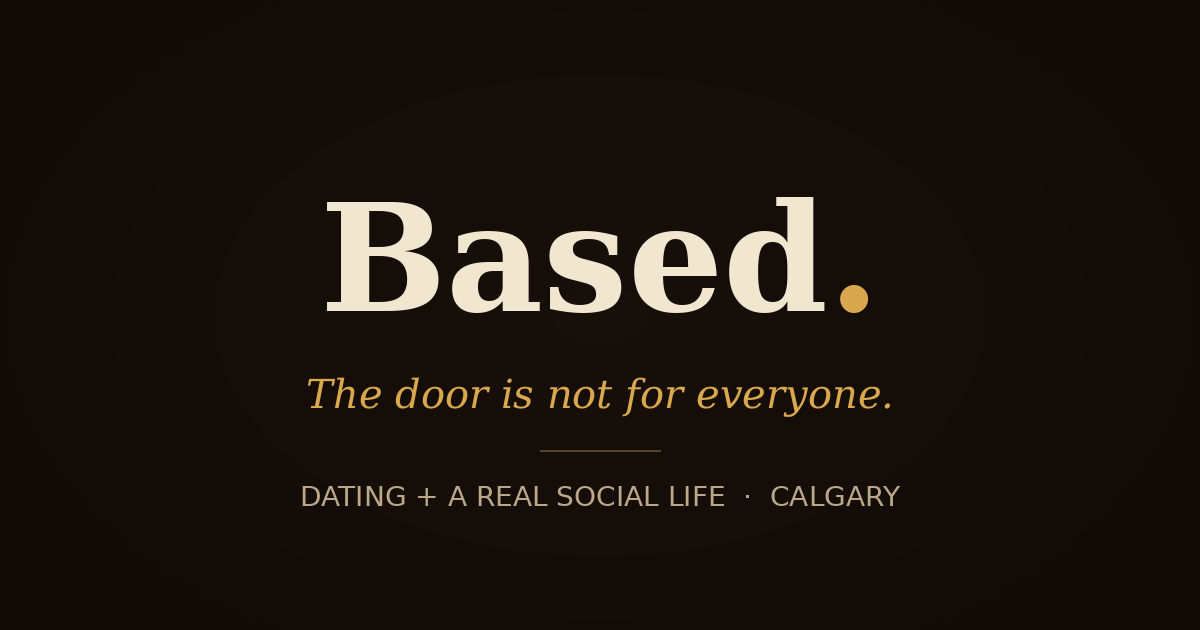
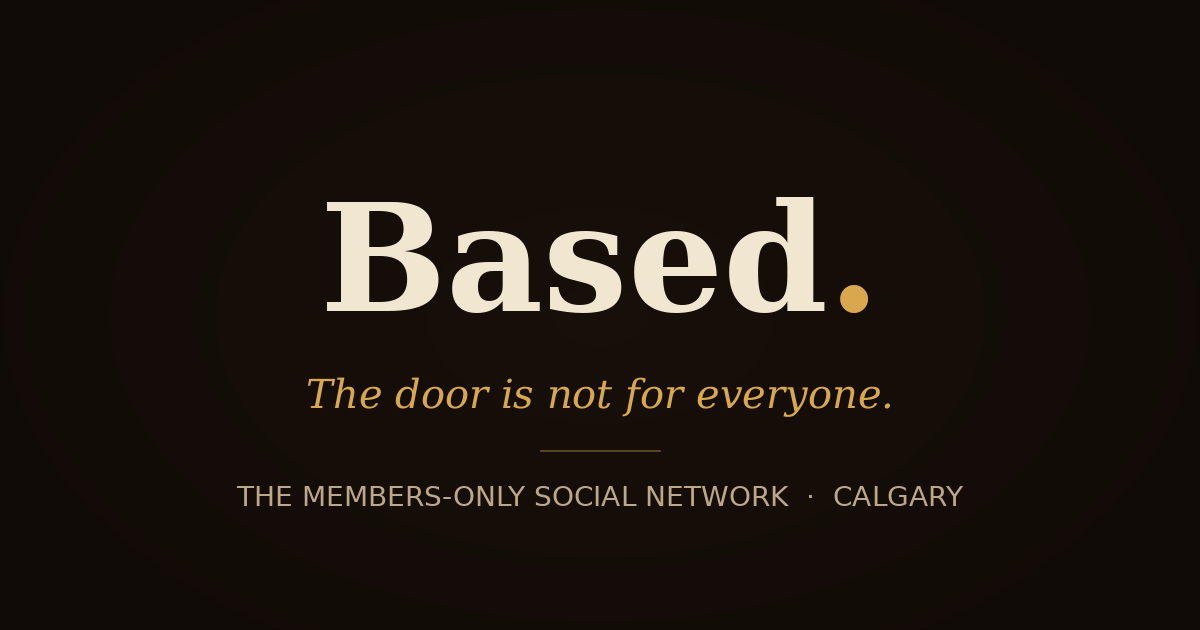
Website: social network first (1/3): homepage + share image

Changed region(s): [[0.185, 0.754, 0.8017, 0.8143]]

diff --git a/site/index.html b/site/index.html
@@ -13,8 +13,8 @@
   try { if (matchMedia('(display-mode: standalone)').matches || navigator.standalone) location.replace('/app/'); } catch (e) {}
 })();
 </script>
-<title>Based · Dating and a real social life in Calgary</title>
-<meta name="description" content="Based is a members-only app for dating, friends, events and the best spots in Calgary. Real photos, real people, voice notes instead of endless texting. 18+. Join the waitlist.">
+<title>Based · The members-only social network for Calgary</title>
+<meta name="description" content="Based is a members-only social network for Calgary: a feed worth reading, groups, events and the best local spots, with real, verified people. Dating is built in too. 18+. Join the waitlist.">
 <link rel="canonical" href="https://based-social.com/">
 <meta name="robots" content="index,follow,max-image-preview:large">
 <meta name="theme-color" content="#110B07">
@@ -24,14 +24,14 @@
 <meta property="og:site_name" content="Based">
 <meta property="og:url" content="https://based-social.com/">
 <meta property="og:title" content="Based · The door is not for everyone.">
-<meta property="og:description" content="Dating and a real social life in one members-only app. Calgary first. Join the waitlist.">
+<meta property="og:description" content="A members-only social network for real people: posts worth reading, groups, events and the best spots. Calgary first. Join the waitlist.">
 <meta property="og:image" content="https://based-social.com/og.png">
 <meta property="og:image:width" content="1200">
 <meta property="og:image:height" content="630">
 <meta property="og:locale" content="en_CA">
 <meta name="twitter:card" content="summary_large_image">
 <meta name="twitter:title" content="Based · The door is not for everyone.">
-<meta name="twitter:description" content="Dating and a real social life in one members-only app. Calgary first.">
+<meta name="twitter:description" content="A members-only social network for real people. Calgary first.">
 <meta name="twitter:image" content="https://based-social.com/og.png">
 <script type="application/ld+json">
 {
@@ -61,7 +61,7 @@
       "applicationCategory": "SocialNetworkingApplication",
       "operatingSystem": "Android, iOS (web), Web",
       "url": "https://based-social.com/app/",
-      "description": "Dating, friends, events and venues in one members-only app. 18+.",
+      "description": "A members-only social network: a feed, groups, events, local spots, and dating built in. 18+.",
       "offers": { "@type": "Offer", "price": "0", "priceCurrency": "CAD" },
       "publisher": { "@id": "https://based-social.com/#org" }
     },
@@ -69,15 +69,15 @@
       "@type": "FAQPage",
       "mainEntity": [
         { "@type": "Question", "name": "What is Based?",
-          "acceptedAnswer": { "@type": "Answer", "text": "Based is one app for dating and a real social life: people to date, groups to join, events, a feed worth reading, and the bars and spots worth going to. It's members-only and 18+." } },
+          "acceptedAnswer": { "@type": "Answer", "text": "Based is a members-only social network for real people: a feed worth reading, groups to join, events, and the bars and spots worth going to. Dating is built in for anyone who wants it. It's 18+." } },
         { "@type": "Question", "name": "Where is Based available?",
           "acceptedAnswer": { "@type": "Answer", "text": "Based is opening in Calgary first. Anyone can join the waitlist for their city, and new cities open when enough people sign up." } },
         { "@type": "Question", "name": "How do I get in?",
           "acceptedAnswer": { "@type": "Answer", "text": "With an invite code from a member or a partner venue, or through the waitlist. Each city has a member cap and new spots open in timed drops. A member's code moves you to the front of the line." } },
         { "@type": "Question", "name": "Is Based free?",
           "acceptedAnswer": { "@type": "Answer", "text": "Yes, Based is free to join and use. An optional Premium membership with extras is coming." } },
-        { "@type": "Question", "name": "How is Based different from other dating apps?",
-          "acceptedAnswer": { "@type": "Answer", "text": "Photos are checked against a live selfie, contact info stays hidden until you've both sent a voice note, and matches that never talk fade out. Dating sits alongside friends, groups and events, so you meet people the way people actually meet." } }
+        { "@type": "Question", "name": "How is Based different from other social media?",
+          "acceptedAnswer": { "@type": "Answer", "text": "Everyone is a real, verified person in your city. There are no follower counts or popularity scores, useful posts reach more people while noise doesn't, and the point is to get you out to events and spots with people you'd actually like. Dating is there too, for anyone who wants it." } }
       ]
     }
   ]
@@ -156,8 +156,8 @@ footer a{color:var(--muted);margin-right:16px}
 <div class="wrap hero">
   <div>
     <p class="slogan">The door is not for everyone.</p>
-    <h1>Dating and a real social life, in one app.</h1>
-    <p class="lede">Meet people to date, make friends, find the events and the spots worth going to. Members only, real people only, and opening in Calgary first.</p>
+    <h1>The social network for people who actually go out.</h1>
+    <p class="lede">A feed worth reading, groups for what you're into, events this week and the spots worth going to. Every member is a real, verified person. Opening in Calgary first.</p>
     <div class="btns">
       <a class="btn" href="#join">Join the waitlist</a>
       <a class="btn2" href="/test/">Get the Android app</a>
@@ -193,14 +193,14 @@ footer a{color:var(--muted);margin-right:16px}
 <section id="inside">
   <div class="wrap">
     <h2>What's inside</h2>
-    <p class="intro">Most apps make you pick: dating or friends, online or out. Based puts it all in one place, built around getting people off their phones and into the same room.</p>
+    <p class="intro">Most social media keeps you scrolling. Based is built to get you into the same room as people worth knowing, with everything you need for that in one place.</p>
     <div class="grid">
-      <div class="item"><div class="k">Dating</div><h3>A daily batch, not endless swiping</h3><p>People near you, ranked by what you actually share: interests, groups, events and the places you go.</p></div>
-      <div class="item"><div class="k">Voice notes</div><h3>Hear each other early</h3><p>By day four of a match, you've both sent a voice note or the chat pauses. Contact info stays hidden until you have.</p></div>
-      <div class="item"><div class="k">Herd</div><h3>Groups and circles</h3><p>Join or start circles around what you're into, and plan things with them.</p></div>
+      <div class="item"><div class="k">Feed</div><h3>Posts worth reading</h3><p>Topics from startups to Stoicism, or start your own. Useful posts reach more people; noise and rage-bait don't.</p></div>
+      <div class="item"><div class="k">Herd</div><h3>Groups and circles</h3><p>Join or start circles around what you're into: run clubs, founders, book clubs, hockey. Make plans with people who are in.</p></div>
       <div class="item"><div class="k">Events</div><h3>Things to do this week</h3><p>See what's on in the city, who's going, and RSVP in a tap.</p></div>
       <div class="item"><div class="k">Spots</div><h3>The places worth going</h3><p>Check in at partner bars and venues, see who else is there, and vote on what plays next.</p></div>
-      <div class="item"><div class="k">Feed</div><h3>Posts that are worth reading</h3><p>Topics from startups to Stoicism. Useful posts reach more people; noise doesn't.</p></div>
+      <div class="item"><div class="k">People</div><h3>Friends, not followers</h3><p>No follower counts or popularity scores. Find people near you who share your interests and say hi.</p></div>
+      <div class="item"><div class="k">Dating</div><h3>Built in, if you want it</h3><p>Switch it on and get a short daily list of people you actually have things in common with. Voice notes come before phone numbers.</p></div>
     </div>
     <div class="topics" aria-label="Some topics on Based">
       <span>AI</span><span>Startups</span><span>Entrepreneurship</span><span>Real estate</span><span>Stock market</span><span>Philosophy</span><span>Stoicism</span><span>Volunteering</span><span>Mentorship</span><span>Hiking</span><span>Hockey</span><span>Fitness</span><span>Cooking</span><span>Music</span><span>Travel</span>
@@ -216,7 +216,7 @@ footer a{color:var(--muted);margin-right:16px}
       <li><b>Get a code or join the line</b>From a member, a partner venue, or the waitlist.</li>
       <li><b>Spots open in drops</b>Each city has a member cap. When spots open, the front of the line gets in first.</li>
       <li><b>Prove you're you</b>Real photos, checked against a live selfie. 18+ only.</li>
-      <li><b>Show up</b>Talk, meet, go places. People who ghost fade out; people who show up get seen.</li>
+      <li><b>Show up</b>Post, join, go places. People who add something get seen; people who don't, fade out.</li>
     </ol>
   </div>
 </section>
@@ -224,11 +224,11 @@ footer a{color:var(--muted);margin-right:16px}
 <section id="faq">
   <div class="wrap">
     <h2>Questions</h2>
-    <details><summary>What is Based?</summary><p>Based is one app for dating and a real social life: people to date, groups to join, events, a feed worth reading, and the bars and spots worth going to. It's members-only and 18+.</p></details>
+    <details><summary>What is Based?</summary><p>Based is a members-only social network for real people: a feed worth reading, groups to join, events, and the bars and spots worth going to. Dating is built in for anyone who wants it. It's 18+.</p></details>
     <details><summary>Where is Based available?</summary><p>Based is opening in <a href="/calgary/">Calgary</a> first. Anyone can join the waitlist for their city, and new cities open when enough people sign up.</p></details>
     <details><summary>How do I get in?</summary><p>With an invite code from a member or a partner venue, or through the waitlist. Each city has a member cap and new spots open in timed drops. A member's code moves you to the front of the line.</p></details>
     <details><summary>Is Based free?</summary><p>Yes, Based is free to join and use. An optional Premium membership with extras is coming.</p></details>
-    <details><summary>How is Based different from other dating apps?</summary><p>Photos are checked against a live selfie, contact info stays hidden until you've both sent a voice note, and matches that never talk fade out. Dating sits alongside friends, groups and events, so you meet people the way people actually meet.</p></details>
+    <details><summary>How is Based different from other social media?</summary><p>Everyone is a real, verified person in your city. There are no follower counts or popularity scores, useful posts reach more people while noise doesn't, and the point is to get you out to events and spots with people you'd actually like. Dating is there too, for anyone who wants it.</p></details>
     <details><summary>Is there an iPhone app?</summary><p>Not in the App Store yet. On iPhone, open <a href="/app/">based-social.com/app</a> in Safari and add it to your home screen; it works like an app. Android members can <a href="/test/">download the app here</a>.</p></details>
   </div>
 </section>
